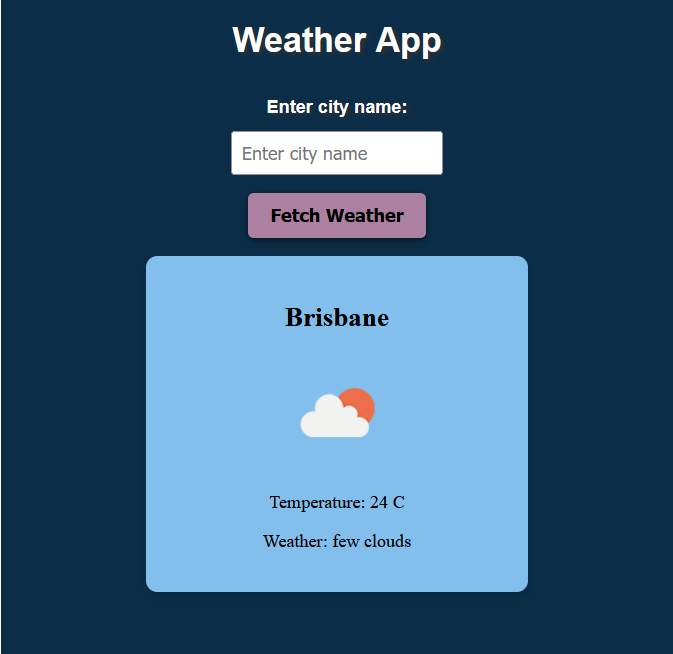
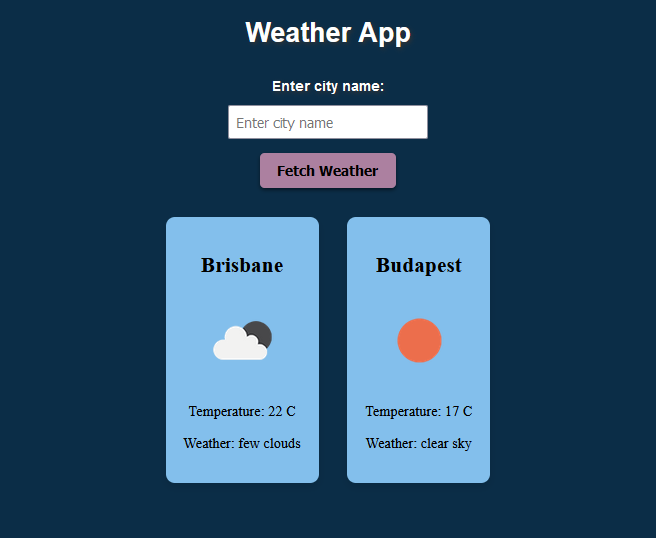
new city cards can be added, readme update

Changed region(s): [[0.2134, 0.1487, 0.7927, 0.9219], [0.3354, 0.0297, 0.6707, 0.0892]]

diff --git a/weather_app/weather_app.js b/weather_app/weather_app.js
@@ -1,39 +1,54 @@
+import { API_KEY } from "./config.js";
+
 const fetchWeatherBtn = document.getElementById("fetch-weather-btn");
 const cityInput = document.getElementById("city-input");
 const weatherDataDiv = document.getElementById("weather-data");
-const API_KEY = "your API KEY"
+let fetchCount = 0;
 
-fetchWeatherBtn.addEventListener("click", async () => {
-    const cityName = cityInput.value;
-    cityInput.value =""
-    if (cityName.trim() === "") {
-        alert("Please enter a city name.");
-        return cityName;
-    }
+async function fetchData() {
+  const cityName = cityInput.value;
+  cityInput.value = "";
+  if (cityName.trim() === "") {
+    alert("Please enter a city name.");
+    return cityName;
+  }
 
-    try{
-        const response = await fetch(`https://api.openweathermap.org/data/2.5/weather?q=${cityName}&APPID=${API_KEY}`)
-            if (!response.ok) {
-                throw new Error("City not found");
-            }
-        const data = await response.json()
-        displayWeatherData(data)
-    }catch(error){
-        alert(error);
-        weatherDataDiv.innerHTML = "";
+  try {
+    const response = await fetch(
+      `https://api.openweathermap.org/data/2.5/weather?q=${cityName}&APPID=${API_KEY}`
+    );
+    if (!response.ok) {
+      throw new Error("City not found");
     }
+    const data = await response.json();
+    fetchCount++;
+    displayWeatherData(data);
+  } catch (error) {
+    alert(error);
+    weatherDataDiv.innerHTML = "";
+  }
+}
+
+fetchWeatherBtn.addEventListener("click", () => {
+  if (fetchCount < 3) {
+    fetchData();
+    if (fetchCount === 3) {
+      fetchWeatherBtn.disabled = true;
+    }
+  }
 });
 
-
 function displayWeatherData(data) {
-    const degree = Math.round(data.main.temp - 273.15)
-    let iconCode = data.weather[0].icon;
-    let iconUrl = `https://openweathermap.org/img/wn/${iconCode}@2x.png`;
-    weatherDataDiv.innerHTML = `
+  const card = document.createElement("div");
+  const degree = Math.round(data.main.temp - 273.15);
+  let iconCode = data.weather[0].icon;
+  let iconUrl = `https://openweathermap.org/img/wn/${iconCode}@2x.png`;
+  card.classList.add("card");
+  card.innerHTML = `
         <h2>${data.name}</h2>
         <img id="weather-icon" src="${iconUrl}" alt="Weather icon">
         <p>Temperature: ${degree} C</p>
         <p>Weather: ${data.weather[0].description}</p>
     `;
-    
+  weatherDataDiv.appendChild(card);
 }

diff --git a/weather_app/style.css b/weather_app/style.css
@@ -9,7 +9,7 @@ body{
 
 .container{
     background-color: #0B2D47;
-    height: 75vh;
+    height: 60vh;
     width: 35vw;
     display: flex;
     align-items: center;
@@ -46,7 +46,7 @@ font-size: 16px;
     background-color: #AC80A0;
     display: inline-block;
     padding: 10px 20px;
-    margin-top: 16px;
+    margin: 16px 16px;
     font-size: 16px;
     font-weight: bold;
     text-align: center;
@@ -71,16 +71,22 @@ font-size: 16px;
 }
 
 #weather-data{
+    display: flex;
+    justify-content: space-around;
+    align-items: center;
+}
+
+.card{
   background-color: #83BFEC;
   border-radius: 10px;
   box-shadow: 0 4px 8px rgba(0, 0, 0, 0.1);
   padding: 20px;
-  width: 50%;
-  max-width: 400px;
-  margin-top: 16px;
+  max-width: 500px;
+  margin-top: 16px 16px;
   text-align: center;
+  margin: 16px;
 }
 
-#weather-data p{
+.card p{
     font-size: 16px;
 }

diff --git a/weather_app/index.html b/weather_app/index.html
@@ -14,6 +14,6 @@
     <button id="fetch-weather-btn">Fetch Weather</button>
     <div id="weather-data"></div>
     </div>
-    <script src="weather_app.js"></script>
+    <script type="module" src="weather_app.js"></script>
 </body>
 </html>

diff --git a/weather_app/config_example.js b/weather_app/config_example.js
@@ -1,0 +1,1 @@
+export const API_KEY  = "your api key";

diff --git a/weather_app/README.md b/weather_app/README.md
@@ -1,7 +1,9 @@
 # Weather App
 
 This weather app is designed to give users an up-to-date and accurate weather report for any city in the world.
-It utilises an API (https://api.openweathermap.org) to gather current weather data, including icon, temperature and description.
-To use the app please use your own API_KEY in the weather_app.js file.
+The button can be used to add information for up to 3 cities in total. Once the limit of 3 cities is reached, the button will no longer be active.
+The app utilises an API (https://api.openweathermap.org) to gather current weather data, including icon, temperature and description.
+In order to use the app, please define your own API_KEY in a config.js file, following the format shown in the config_example.js file.
 
 ![weather app](./weather_app.png)
+![weather app 2](./weather_app_2.png)
